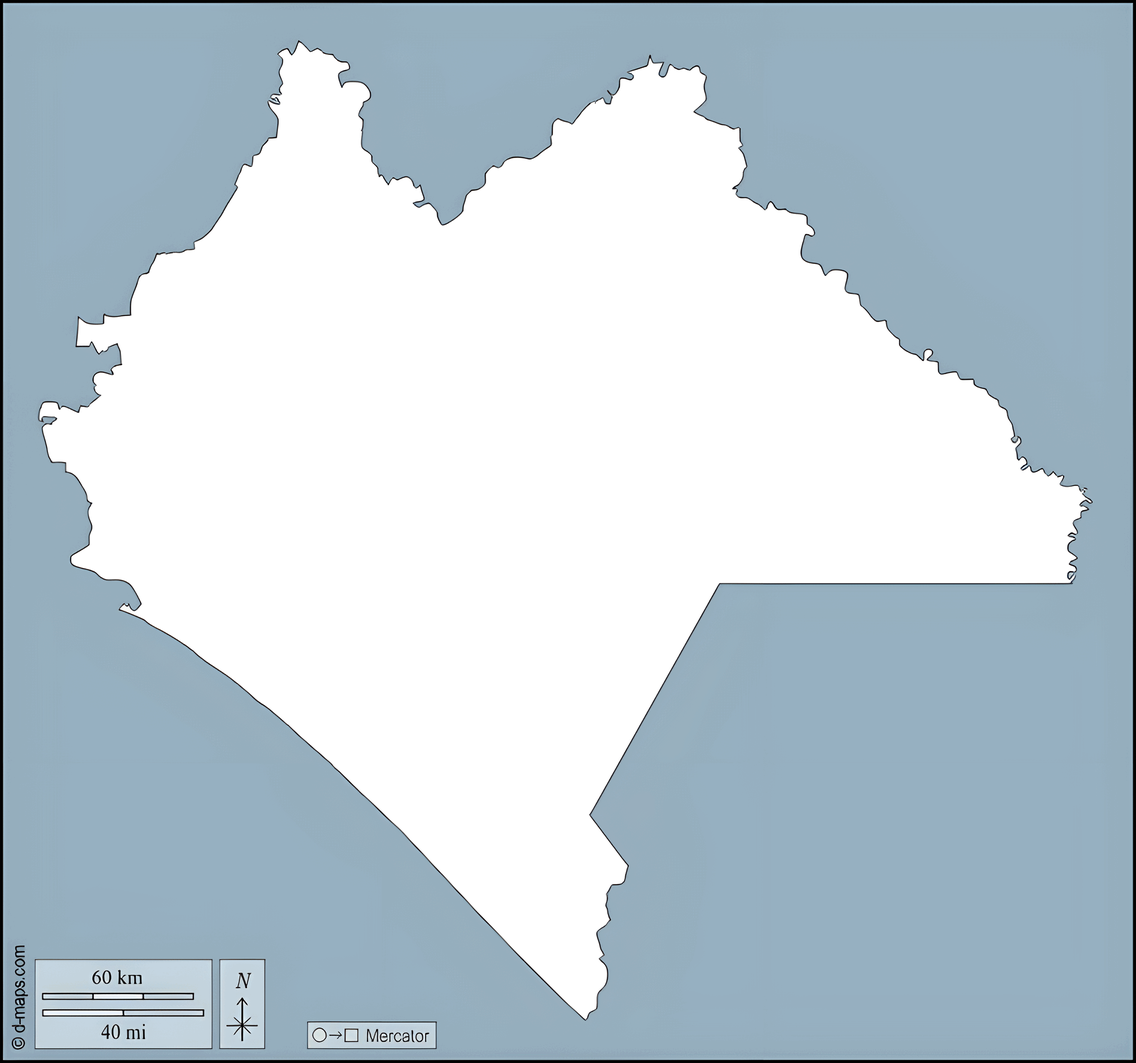
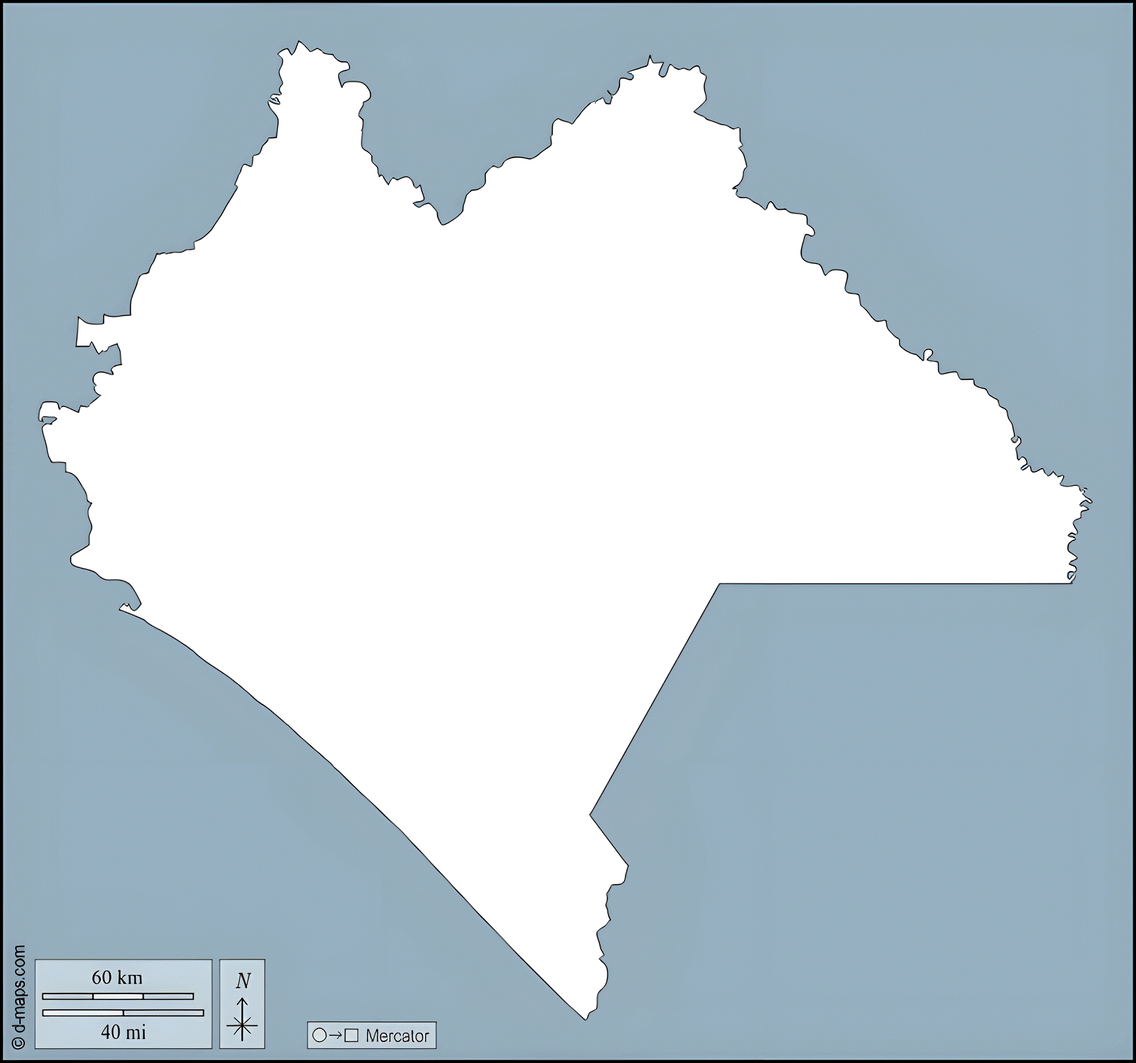
feat: 10 localidades mas
Se agregaron 10 localidades mas con sus respectivas coordenadas y se actualizaron las carreteras.

Changed region(s): [[0.0, 0.0, 1.0, 1.0]]

diff --git a/ProyectoGrafos/src/main/java/itson/org/proyectografos/CargadorDatos.java b/ProyectoGrafos/src/main/java/itson/org/proyectografos/CargadorDatos.java
@@ -19,7 +19,7 @@ public class CargadorDatos {
         lista.add(new Localidad("Tuxtla Gutiérrez", 235, 271));   
         lista.add(new Localidad("Tapachula", 399, 632));         
         lista.add(new Localidad("San Cristóbal", 339, 281));    
-        lista.add(new Localidad("Comitán", 431, 370));           
+        lista.add(new Localidad("Comitán", 431, 372));           
         lista.add(new Localidad("Chiapa de Corzo", 267, 292));   
         lista.add(new Localidad("Palenque", 491, 133));          
         lista.add(new Localidad("Cintalapa", 70, 280));        
@@ -34,57 +34,77 @@ public class CargadorDatos {
         lista.add(new Localidad("Arriaga", 91, 371));           
         lista.add(new Localidad("Las Margaritas", 509, 344));  
         lista.add(new Localidad("Frontera Comalapa", 439, 467));
-        lista.add(new Localidad("Las Rosas", 380, 349));       
+        lista.add(new Localidad("Las Rosas", 380, 345));       
         lista.add(new Localidad("Teopisca", 356, 309));    
         
-        lista.add(new Localidad("Suchiapa", 0,0));
-        lista.add(new Localidad("Mapastepec", 0,0));
-        lista.add(new Localidad("Cacahoatán", 0,0));
-        lista.add(new Localidad("Yajalón", 0,0));
-        lista.add(new Localidad("Pijijiapan", 0,0));
-        lista.add(new Localidad("Ciudad Hidalgo", 0,0));
-        lista.add(new Localidad("Venustiano Carranza", 0,0));
-        lista.add(new Localidad("Pichucalco", 0,0));
-        lista.add(new Localidad("Acala", 0,0));
-        lista.add(new Localidad("Simojovel de Allende", 0,0));
+        lista.add(new Localidad("Suchiapa", 229,311));
+        lista.add(new Localidad("Mapastepec", 271,521));
+        lista.add(new Localidad("Cacahoatán", 421,588));
+        lista.add(new Localidad("Yajalón", 385,184));
+        lista.add(new Localidad("Pijijiapan", 214,479));
+        lista.add(new Localidad("Venustiano Carranza", 329,359));
+        lista.add(new Localidad("Pichucalco", 230,117));
+        lista.add(new Localidad("Acala", 292,325));
+        lista.add(new Localidad("Simojovel de Allende", 327,197));
+        lista.add(new Localidad("Bochil", 263,217));
         
         return lista;
     }
 
-   public static List<Carretera> cargarCarreteras(List<Localidad> locs) {
-       List<Carretera> carreteras = new ArrayList<>();
+  public static List<Carretera> cargarCarreteras(List<Localidad> locs) {
+        List<Carretera> carreteras = new ArrayList<>();
 
-       // Conexiones desde Tuxtla Gutiérrez 
-       carreteras.add(new Carretera(locs.get(0), locs.get(4), 15.0));  // Tuxtla - Chiapa de Corzo
-       carreteras.add(new Carretera(locs.get(0), locs.get(11), 22.0)); // Tuxtla - Berriozábal
-       carreteras.add(new Carretera(locs.get(0), locs.get(10), 75.0)); // Tuxtla - Villaflores
+        // ---------------------------------------------------------
+        // ZONA NORTE Y SELVA
+        // ---------------------------------------------------------
+        carreteras.add(new Carretera(locs.get(13), locs.get(26),  31.0)); // Reforma (13) - Pichucalco (26)
+        carreteras.add(new Carretera(locs.get(26), locs.get(29), 100.0)); // Pichucalco (26) - Bochil (29)
+        carreteras.add(new Carretera(locs.get(29), locs.get(28),  48.0)); // Bochil (29) - Simojovel (28)
+        carreteras.add(new Carretera(locs.get(29), locs.get(0),   84.0)); // Bochil (29) - Tuxtla Gutiérrez (0)
 
-       // Conexiones desde San Cristóbal
-       carreteras.add(new Carretera(locs.get(2), locs.get(4), 60.0));  // San Cristóbal - Chiapa de Corzo
-       carreteras.add(new Carretera(locs.get(2), locs.get(19), 35.0)); // San Cristóbal - Teopisca
-       carreteras.add(new Carretera(locs.get(2), locs.get(7), 90.0));  // San Cristóbal - Ocosingo
-       
+        // ---------------------------------------------------------
+        // ZONA CENTRO Y VALLE
+        // ---------------------------------------------------------
+        carreteras.add(new Carretera(locs.get(0),  locs.get(11),  22.0)); // Tuxtla Gutiérrez (0) - Berriozábal (11)
+        carreteras.add(new Carretera(locs.get(0),  locs.get(4),   15.0)); // Tuxtla Gutiérrez (0) - Chiapa de Corzo (4)
+        carreteras.add(new Carretera(locs.get(0),  locs.get(20),  16.0)); // Tuxtla Gutiérrez (0) - Suchiapa (20)
+        carreteras.add(new Carretera(locs.get(20), locs.get(10),  60.0)); // Suchiapa (20) - Villaflores (10)
+        carreteras.add(new Carretera(locs.get(4),  locs.get(27),  38.0)); // Chiapa de Corzo (4) - Acala (27)
+        carreteras.add(new Carretera(locs.get(27), locs.get(25),  45.0)); // Acala (27) - V. Carranza (25)
+        carreteras.add(new Carretera(locs.get(25), locs.get(18),  25.0)); // V. Carranza (25) - Las Rosas (18)
 
-       // Conexiones zona Comitán 
-       carreteras.add(new Carretera(locs.get(3), locs.get(19), 55.0)); // Comitán - Teopisca
-       carreteras.add(new Carretera(locs.get(3), locs.get(16), 20.0)); // Comitán - Las Margaritas
-       carreteras.add(new Carretera(locs.get(3), locs.get(17), 115.0));// Comitán - Frontera Comalapa
-       carreteras.add(new Carretera(locs.get(18), locs.get(3), 45.0)); // Las Rosas - Comitán
+        // ---------------------------------------------------------
+        // ZONA ALTOS Y RUTA A PALENQUE
+        // ---------------------------------------------------------
+        carreteras.add(new Carretera(locs.get(4),  locs.get(2),   60.0)); // Chiapa de Corzo (4) - San Cristóbal (2)
+        carreteras.add(new Carretera(locs.get(2),  locs.get(19),  35.0)); // San Cristóbal (2) - Teopisca (19)
+        carreteras.add(new Carretera(locs.get(2),  locs.get(7),   90.0)); // San Cristóbal (2) - Ocosingo (7)
+        carreteras.add(new Carretera(locs.get(7),  locs.get(23),  60.0)); // Ocosingo (7) - Yajalón (23)
+        carreteras.add(new Carretera(locs.get(23), locs.get(5),  115.0)); // Yajalón (23) - Palenque (5)
 
-       // Conexiones zona Selva y Norte
-       carreteras.add(new Carretera(locs.get(7), locs.get(5), 120.0)); // Ocosingo - Palenque
-       carreteras.add(new Carretera(locs.get(13), locs.get(8), 210.0));
+        // ---------------------------------------------------------
+        // ZONA FRONTERIZA
+        // ---------------------------------------------------------
+        carreteras.add(new Carretera(locs.get(19), locs.get(18),  30.0)); // Teopisca (19) - Las Rosas (18)
+        carreteras.add(new Carretera(locs.get(19), locs.get(3),   55.0)); // Teopisca (19) - Comitán (3)
+        carreteras.add(new Carretera(locs.get(3),  locs.get(16),  20.0)); // Comitán (3) - Las Margaritas (16)
+        carreteras.add(new Carretera(locs.get(3),  locs.get(17),  80.0)); // Comitán (3) - Frontera Comalapa (17)
+        carreteras.add(new Carretera(locs.get(17), locs.get(14),  55.0)); // Frontera Comalapa (17) - Motozintla (14)
 
-       // Conexiones zona Costa y Soconusco
-       carreteras.add(new Carretera(locs.get(8), locs.get(11), 12.0)); // Conexión Ocozocoautla (8) - Berriozábal (11)
-       carreteras.add(new Carretera(locs.get(8), locs.get(6), 45.0));  // Ocozocoautla - Cintalapa
-       carreteras.add(new Carretera(locs.get(6), locs.get(15), 65.0)); // Cintalapa - Arriaga
-       carreteras.add(new Carretera(locs.get(15), locs.get(9), 25.0)); // Arriaga - Tonalá
-       carreteras.add(new Carretera(locs.get(9), locs.get(12), 175.0));// Tonalá - Huixtla (vía Mapastepec)
-       carreteras.add(new Carretera(locs.get(12), locs.get(1), 40.0));  // Huixtla - Tapachula
-       carreteras.add(new Carretera(locs.get(12), locs.get(14), 60.0)); // Huixtla - Motozintla
-       carreteras.add(new Carretera(locs.get(14), locs.get(17), 55.0)); // Motozintla - Frontera Comalapa
-       
-       return carreteras;
-   }
+        // ---------------------------------------------------------
+        // ZONA COSTA Y SOCONUSCO
+        // ---------------------------------------------------------
+        carreteras.add(new Carretera(locs.get(11), locs.get(8),   14.0)); // Berriozábal (11) - Ocozocoautla (8)
+        carreteras.add(new Carretera(locs.get(8),  locs.get(6),   45.0)); // Ocozocoautla (8) - Cintalapa (6)
+        carreteras.add(new Carretera(locs.get(6),  locs.get(15),  65.0)); // Cintalapa (6) - Arriaga (15)
+        carreteras.add(new Carretera(locs.get(15), locs.get(9),   25.0)); // Arriaga (15) - Tonalá (9)
+        carreteras.add(new Carretera(locs.get(9),  locs.get(24),  75.0)); // Tonalá (9) - Pijijiapan (24)
+        carreteras.add(new Carretera(locs.get(24), locs.get(21),  45.0)); // Pijijiapan (24) - Mapastepec (21)
+        carreteras.add(new Carretera(locs.get(21), locs.get(12),  60.0)); // Mapastepec (21) - Huixtla (12)
+        carreteras.add(new Carretera(locs.get(12), locs.get(14),  90.0)); // Huixtla (12) - Motozintla (14)
+        carreteras.add(new Carretera(locs.get(12), locs.get(1),   41.0)); // Huixtla (12) - Tapachula (1)
+        carreteras.add(new Carretera(locs.get(1),  locs.get(22),  18.0)); // Tapachula (1) - Cacahoatán (22)
+
+        return carreteras;
+    }
 }

diff --git a/ProyectoGrafos/src/main/java/itson/org/proyectografos/PanelMapa.java b/ProyectoGrafos/src/main/java/itson/org/proyectografos/PanelMapa.java
@@ -65,6 +65,8 @@ public class PanelMapa extends JPanel {
         // PASO A: Dibujar la imagen de fondo primero (Capas inferiores)
         if (imagenFondo != null) {
             // Dibujamos la imagen escalada para que ocupe todo el panel
+            System.out.println(getWidth());
+            System.out.println(getHeight());
             g2d.drawImage(imagenFondo, 0, 0, getWidth(), getHeight(), this);
         }
 
